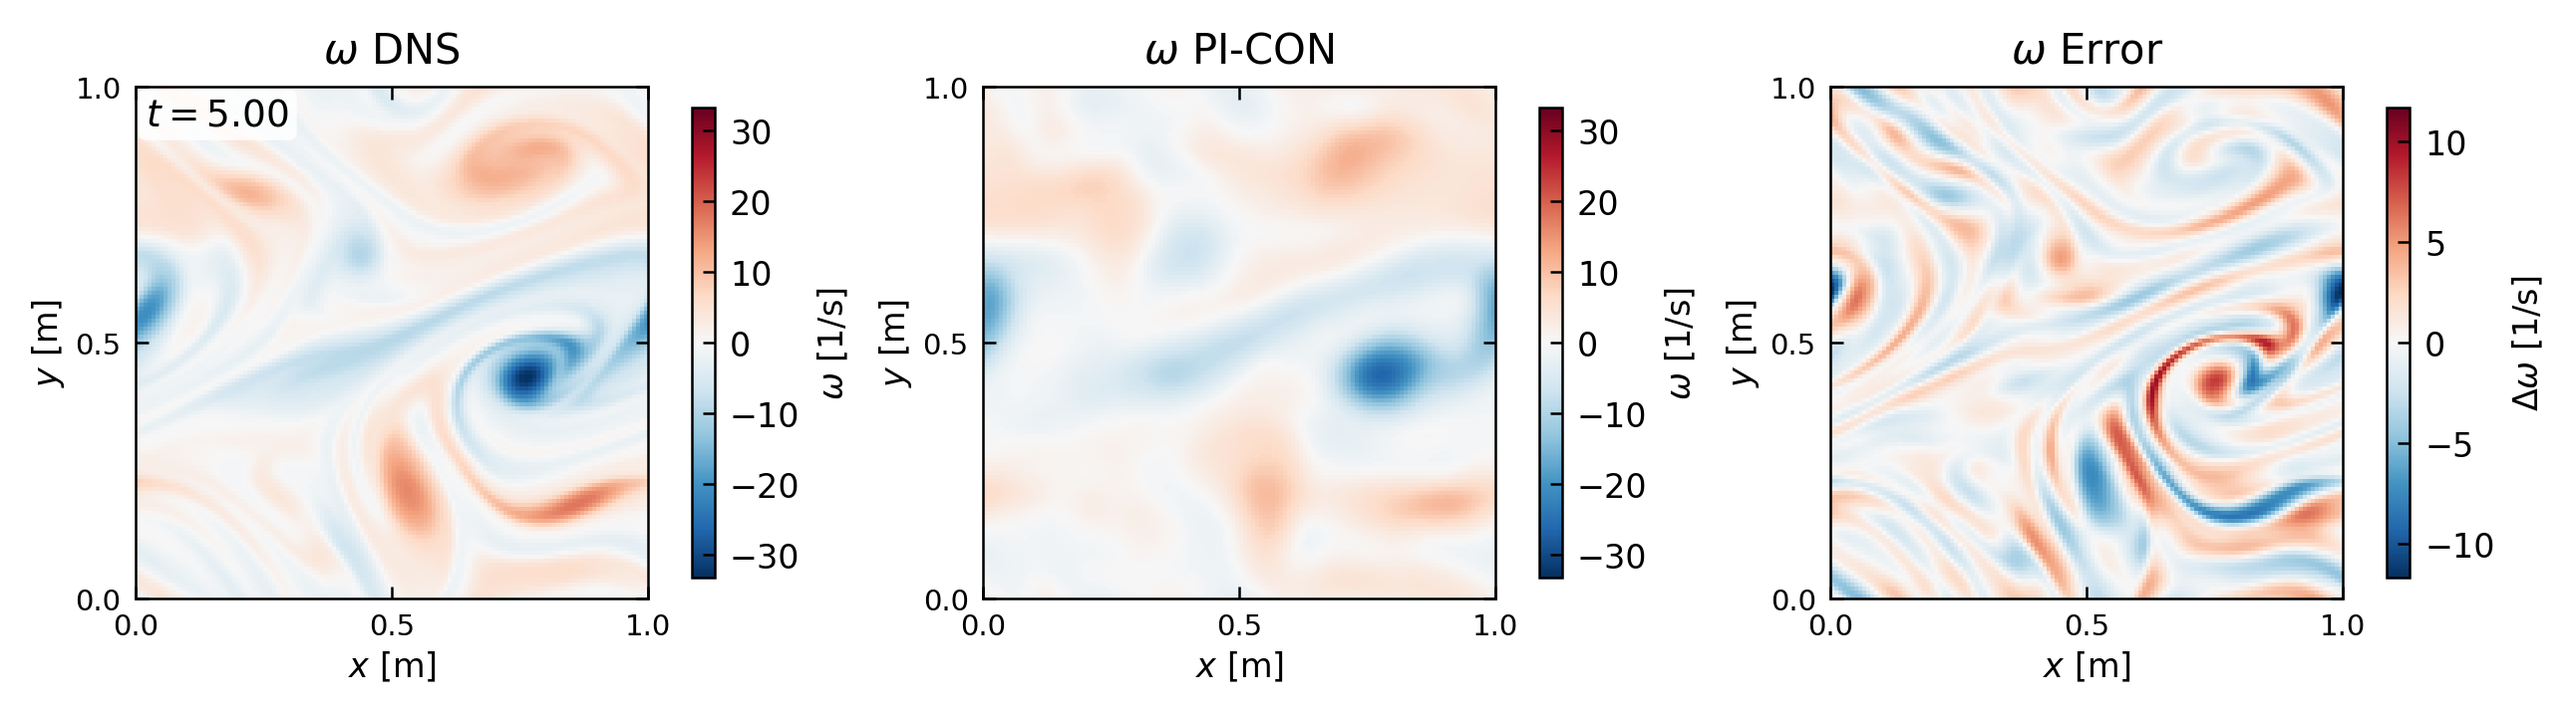
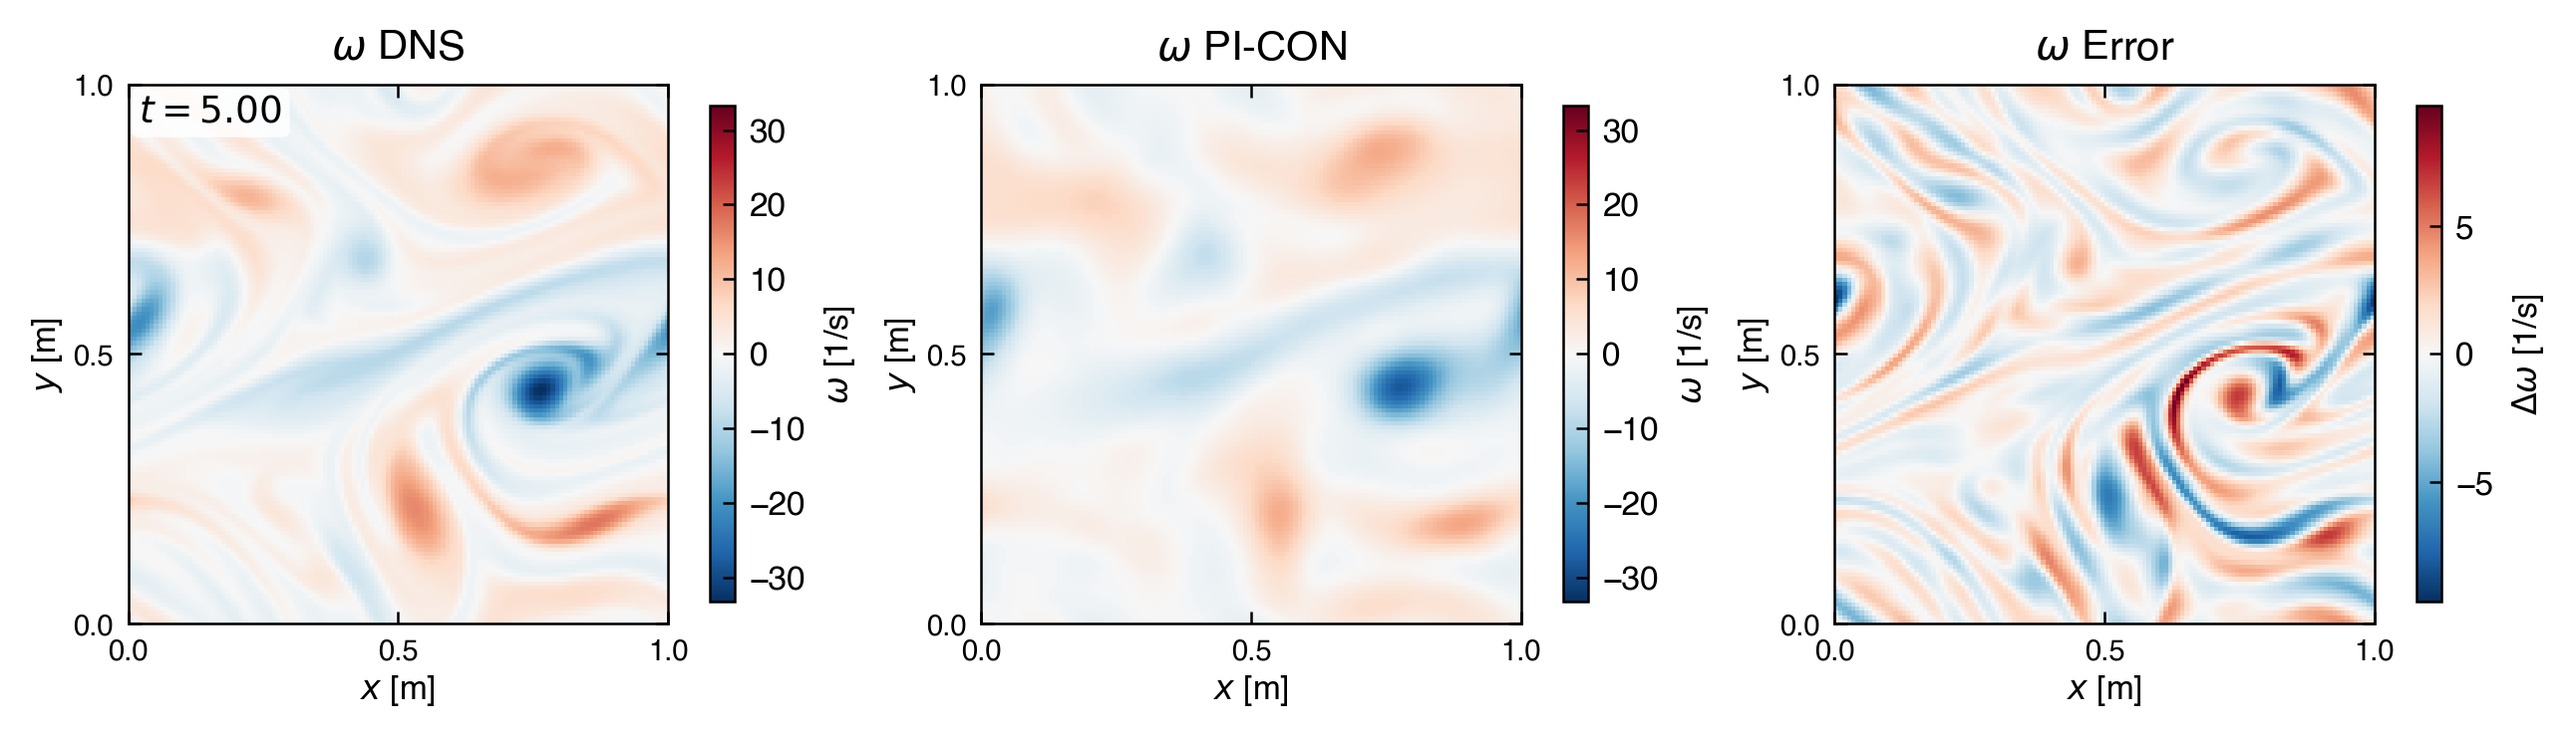
fix(slides): refresh figures to multi-seed envelope + correct velocity-error statement
- 6 張圖刷新為 EXP-245 20k 版(multi-seed envelope、Type-3-free、加單位):
  field_comparison_t5 / vorticity_comparison_t5 / kinetic_energy_vs_time /
  uv_error_vs_time / energy_spectrum / les_T50_vorticity_with_sensors
- uv_error 圖從 absolute RMSE (m/s) 改為 relative L2 error(無量綱):
  caption 隨之更正;v > u(舊寫「|v| < |u| in absolute units」連絕對值都反了)
- KE foot:n=5 mean±1σ envelope 框架
- channel-wise 誤差帶對齊刷新的 field 圖(u ±0.15→±0.10 / ~15%→~10%,v ±0.20→±0.15)
- 排版已於 slidev preview 驗證(slide 13/21/23/24,無溢出)

diff --git a/thesis/slide/slides.md b/thesis/slide/slides.md
@@ -1310,7 +1310,7 @@ div ratio&nbsp; <b style="color:#7F1084;">0.39 ± 0.006 %</b><br/>
 <Card>
 <LabelTiny>① u CHANNEL — streamwise</LabelTiny>
 <div class="mt-2 leading-snug">
-DNS dynamic range ±1.0.&nbsp; Error band ±0.15 ⇒ <b style="color:#7F1084;">~15 % peak local error</b>.
+DNS dynamic range ±1.0.&nbsp; Error band ±0.10 ⇒ <b style="color:#7F1084;">~10 % peak local error</b>.
 </div>
 <div class="mt-2 leading-snug">
 Large-scale shear sheets fully recovered; remaining error localised at sheet edges where |∂u/∂y| is large.
@@ -1323,7 +1323,7 @@ u rel-L₂ — B3 5-seed mean&nbsp;<b>13.65 ± 0.06 %</b>
 <Card>
 <LabelTiny>② v CHANNEL — cross-stream</LabelTiny>
 <div class="mt-2 leading-snug space-y-1">
-<div>· DNS range ±0.7 (smaller than u) · error band ±0.20 <span style="color:#E97132;">(higher relative error)</span></div>
+<div>· DNS range ±0.7 (smaller than u) · error band ±0.15 <span style="color:#E97132;">(higher relative error)</span></div>
 <div>· Forcing acts only on u (sin(k<sub>f</sub> y))</div>
 <div>· v = derived response via ∇p + nonlinear coupling</div>
 <div>· No direct forcing template → harder to recover from sparse v samples</div>
@@ -1364,13 +1364,13 @@ v rel-L₂ — B3 5-seed mean&nbsp;<b>17.52 ± 0.10 %</b>
 <Card>
 <LabelTiny>Kinetic energy KE(t) — units: m²/s²</LabelTiny>
 <img :src="'/images/kinetic_energy_vs_time.png'" class="rounded mt-1" style="max-height: 180px; width: 100%; object-fit: contain;" />
-<div class="foot mt-1">KE MAPE <b style="color:#7F1084;">5.71 ± 0.11 %</b> (n = 5)·&nbsp; PI-CON follows the DNS chaotic decay 0.161 → 0.122 m²/s²; IC warm-up oscillation for t &lt; 2 s, residual within ~7 % of DNS for t ≥ 2.5 s.</div>
+<div class="foot mt-1">KE MAPE <b style="color:#7F1084;">5.71 ± 0.11 %</b> (n = 5, mean ± 1σ)·&nbsp; PI-CON follows the DNS chaotic decay 0.161 → 0.122 m²/s²; IC warm-up for t &lt; 2 s, within ~7 % of DNS for t ≥ 2.5 s.</div>
 </Card>
 
 <Card>
-<LabelTiny>Velocity RMSE u, v — units: m/s</LabelTiny>
+<LabelTiny>Velocity rel-L₂ error u, v — dimensionless</LabelTiny>
 <img :src="'/images/uv_error_vs_time.png'" class="rounded mt-1" style="max-height: 180px; width: 100%; object-fit: contain;" />
-<div class="foot mt-1">RMSE 0.16 m/s (t = 0) → ≲ 0.04 m/s (t = 3 s).&nbsp; |v error| &lt; |u error| in absolute units (smaller dynamic range; forcing in u direction).</div>
+<div class="foot mt-1">rel-L₂ ~30% (IC) → single-digit; time-avg u <b>13.65%</b>, v <b>17.52%</b> (n = 5, ±1σ).&nbsp; v &gt; u — forcing on u; v is a derived response.</div>
 </Card>
 
 <Card>
@@ -1390,7 +1390,7 @@ v rel-L₂ — B3 5-seed mean&nbsp;<b>17.52 ± 0.10 %</b>
 <FooterLogos />
 
 <!--
-[Temporal & Spectral · 2min] 三張圖：KE(t)（MAPE 5.71 ± 0.11%, n=5, 追 DNS chaotic decay 0.161→0.122 m²/s²）、velocity RMSE u/v(t)（0.16→≲0.04 m/s, |v err|<|u err|）、E(k) at t=5（low band k≤5 recovered, mid/high 在 k≈5.64 = K=100 sensor-Nyquist 掉落）。div ratio 0.39% 接近 resolved-bandwidth FD floor。
+[Temporal & Spectral · 2min] 三張圖：KE(t)（MAPE 5.71 ± 0.11%, n=5, 追 DNS chaotic decay 0.161→0.122 m²/s²）、velocity rel-L₂ u/v(t)（~30%→single-digit, v>u, ±1σ band n=5）、E(k) at t=5（low band k≤5 recovered, mid/high 在 k≈5.64 = K=100 sensor-Nyquist 掉落）。div ratio 0.39% 接近 resolved-bandwidth FD floor。
 -->
 
 ---
